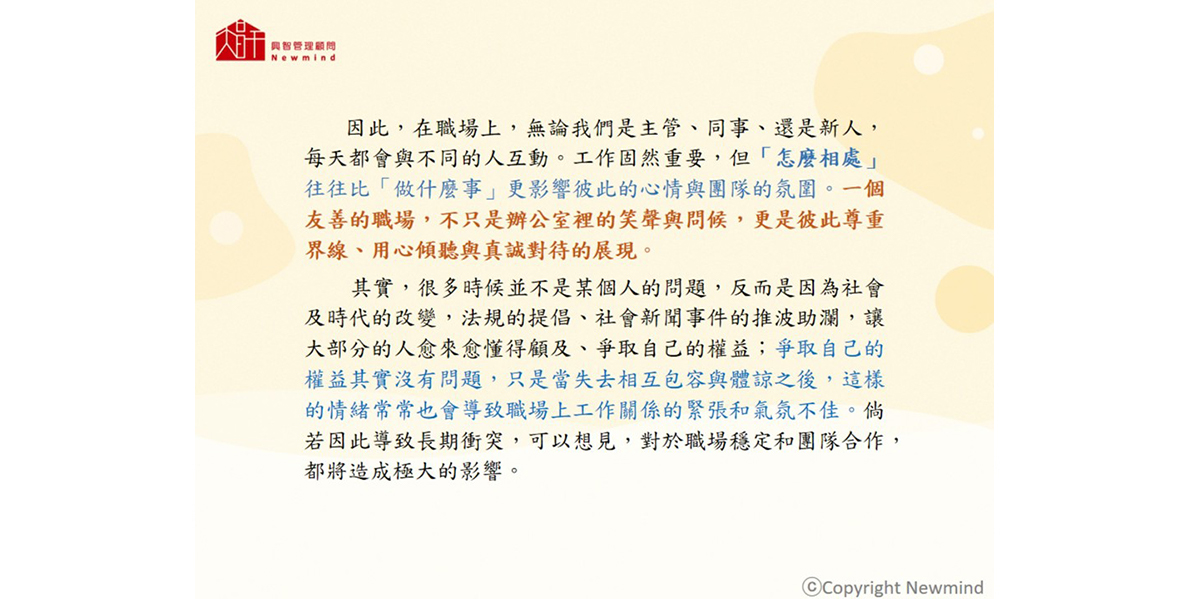
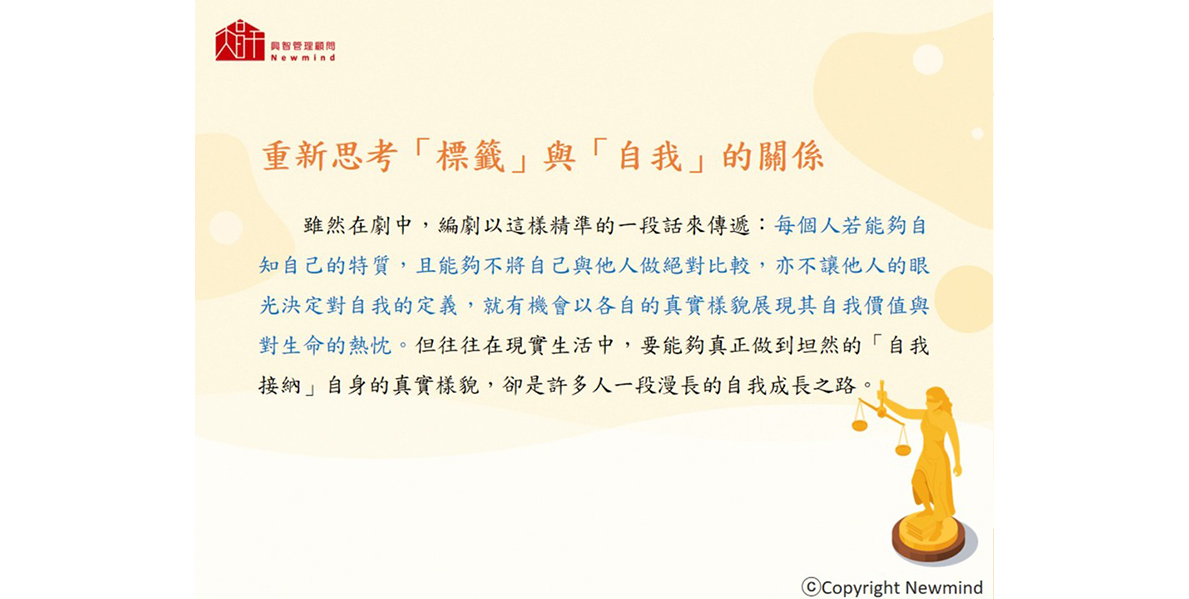
123

Changed region(s): [[0.2178, 0.1803, 0.8402, 1.0], [0.1867, 0.0301, 0.2801, 0.1202]]

diff --git a/Employee6-9-03.html b/Employee6-9-03.html
@@ -72,21 +72,19 @@ body {
       
        <div id="columnsleft_2">
         <div id="columnsTitle4"><font size="+3">每</font>月快訊</div>
-         <div id="columnsTitle10"><img src="images/6/50/08.jpg" alt="" width="50" height="50" border="0" />月號－心靈小品</div>
+         <div id="columnsTitle10"><img src="images/6/50/09.jpg" alt="" width="50" height="50" border="0" />月號－心靈影展</div>
        </div>
        
        <div id="company5">
-       <img src="images/6/6-8-3/01.jpg" alt="" width="1189" height="599" border="0" />
-       <img src="images/6/6-8-3/02.jpg" alt="" width="1189" height="599" border="0" />
-       <img src="images/6/6-8-3/03.jpg" alt="" width="1189" height="599" border="0" />
-       <img src="images/6/6-8-3/04.jpg" alt="" width="1189" height="599" border="0" />
-       <img src="images/6/6-8-3/05.jpg" alt="" width="1189" height="599" border="0" />
-       <img src="images/6/6-8-3/06.jpg" alt="" width="1189" height="599" border="0" />
-       <img src="images/6/6-8-3/07.jpg" alt="" width="1189" height="599" border="0" />
-       <img src="images/6/6-8-3/08.jpg" alt="" width="1189" height="599" border="0" />
-       <img src="images/6/6-8-3/09.jpg" alt="" width="1189" height="599" border="0" />
-	   <img src="images/6/6-8-3/10.jpg" alt="" width="1189" height="599" border="0" />
-		<img src="images/6/6-8-3/11.jpg" alt="" width="1189" height="599" border="0" />   
+       <img src="images/6/6-9-3/01.jpg" alt="" width="1189" height="599" border="0" />
+       <img src="images/6/6-9-3/02.jpg" alt="" width="1189" height="599" border="0" />
+       <img src="images/6/6-9-3/03.jpg" alt="" width="1189" height="599" border="0" />
+       <img src="images/6/6-9-3/04.jpg" alt="" width="1189" height="599" border="0" />
+       <img src="images/6/6-9-3/05.jpg" alt="" width="1189" height="599" border="0" />
+       <img src="images/6/6-9-3/06.jpg" alt="" width="1189" height="599" border="0" />
+       <img src="images/6/6-9-3/07.jpg" alt="" width="1189" height="599" border="0" />
+       <img src="images/6/6-9-3/08.jpg" alt="" width="1189" height="599" border="0" />
+       <img src="images/6/6-9-3/09.jpg" alt="" width="1189" height="599" border="0" />
        </div>
        
       
